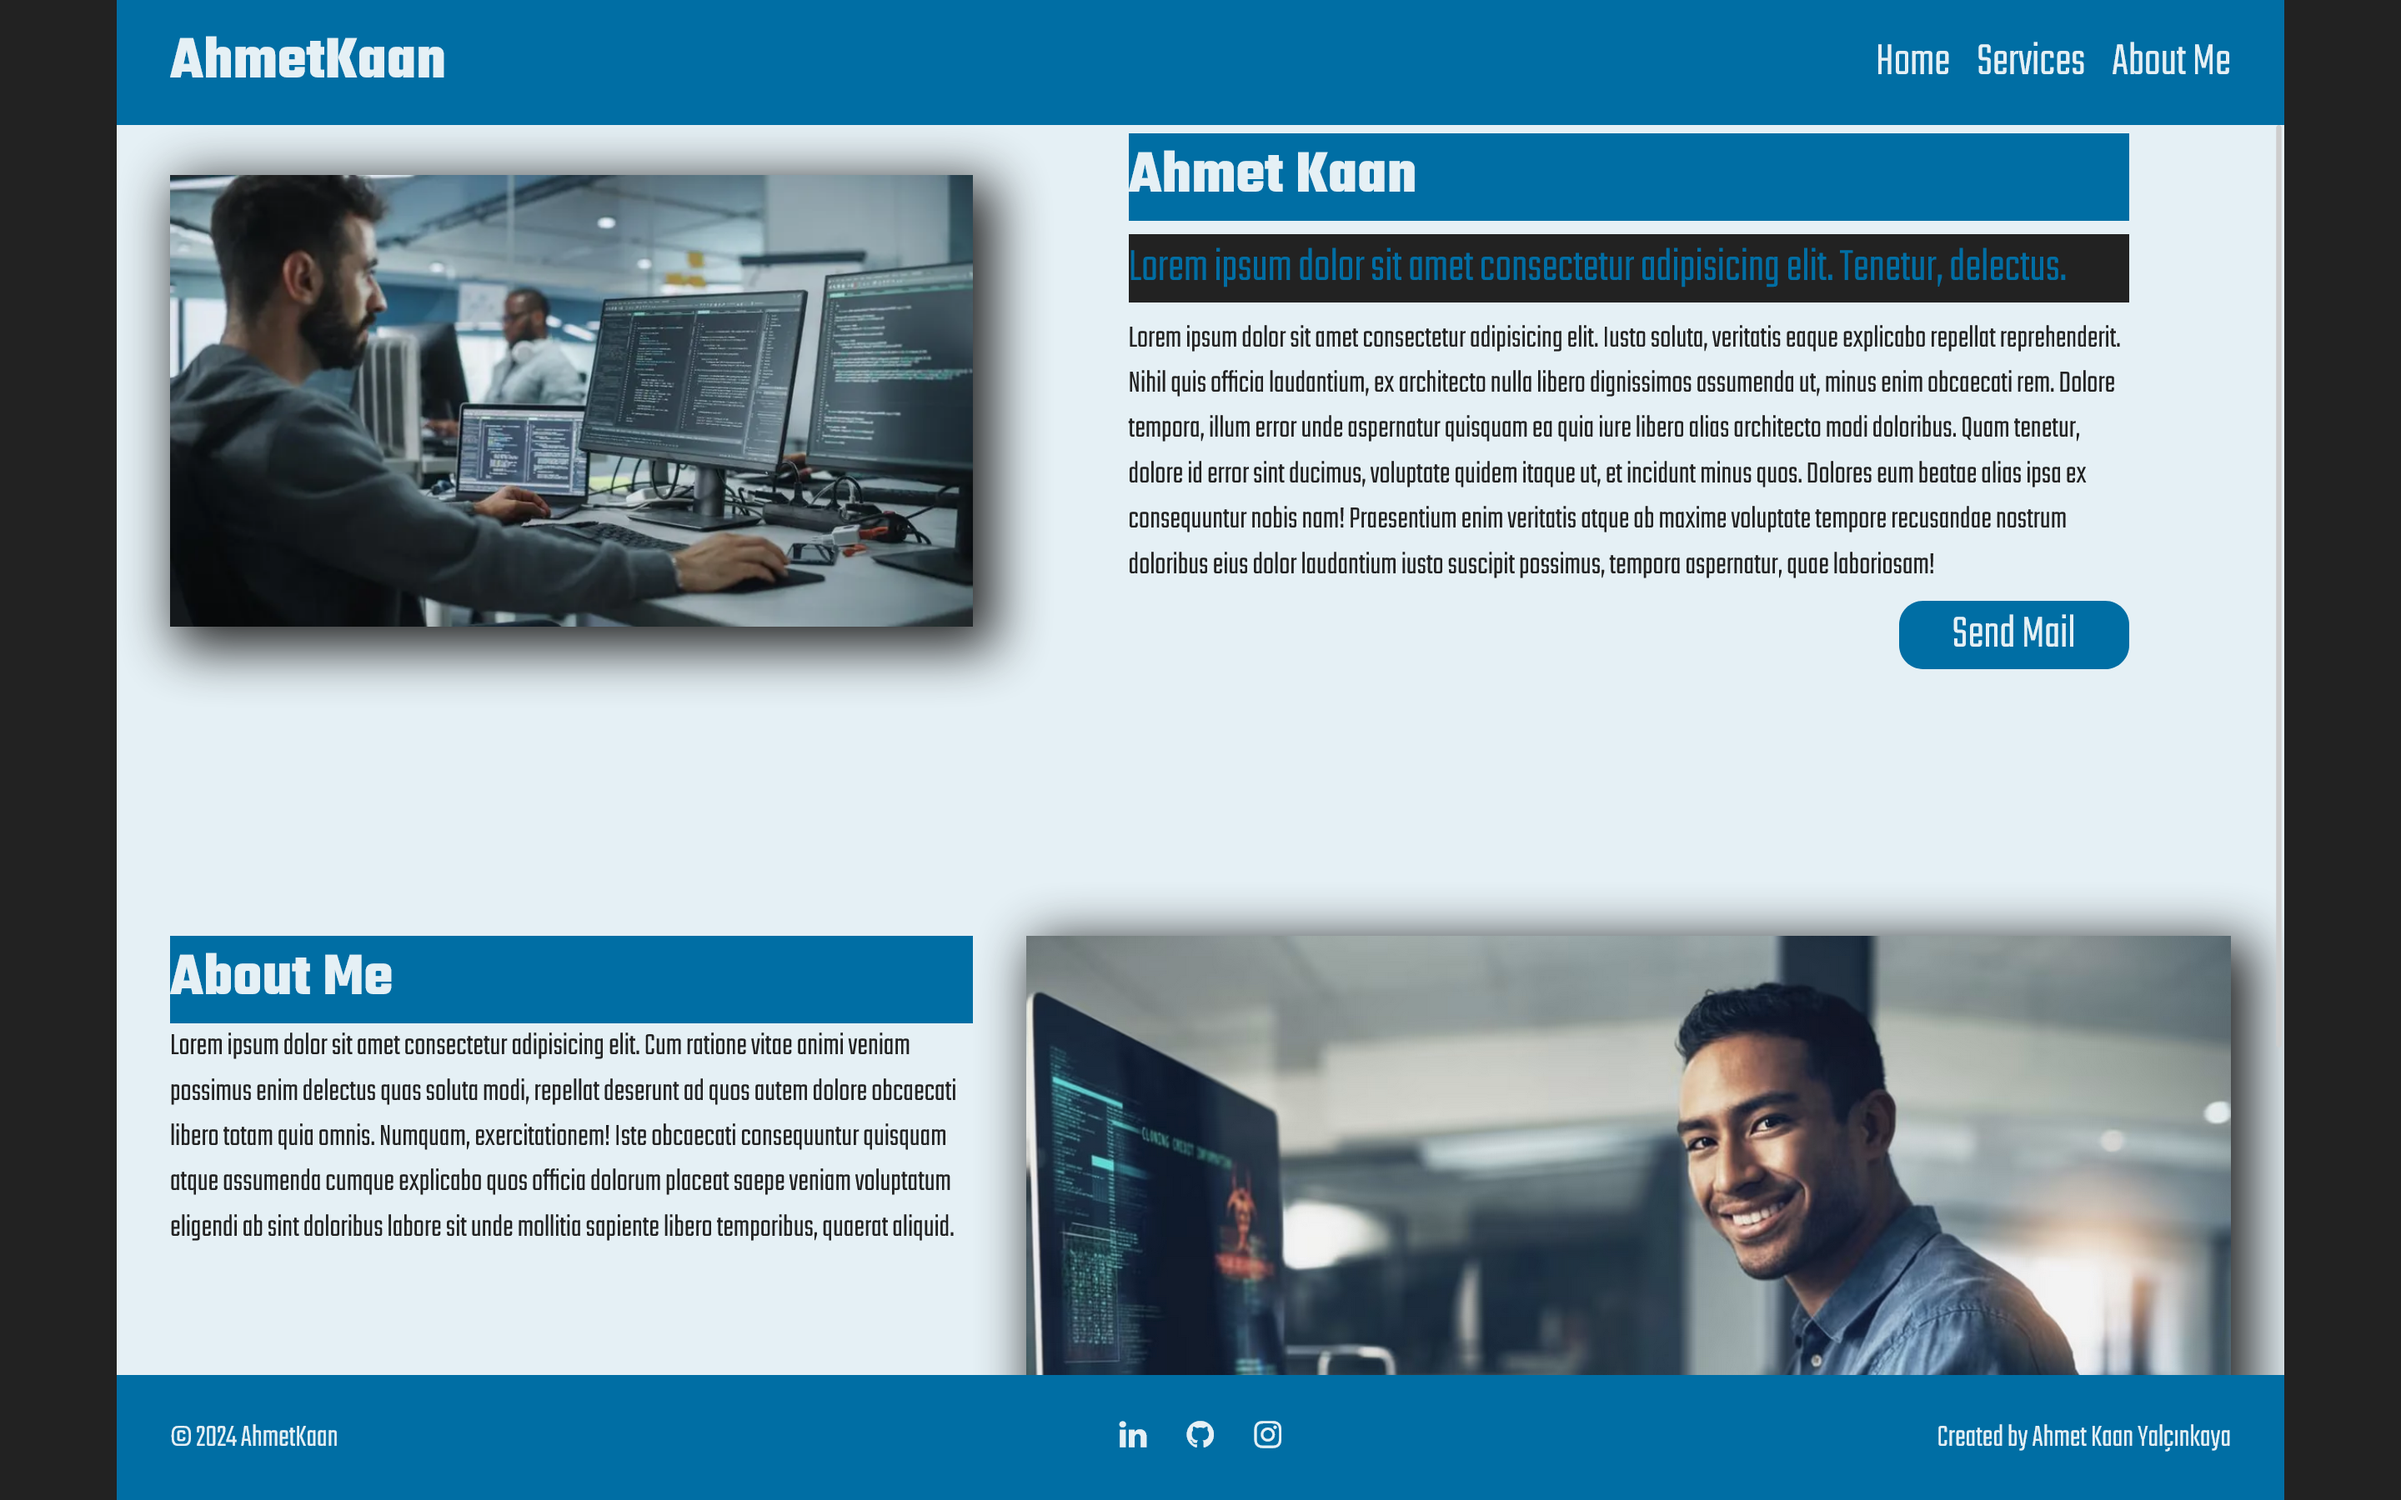
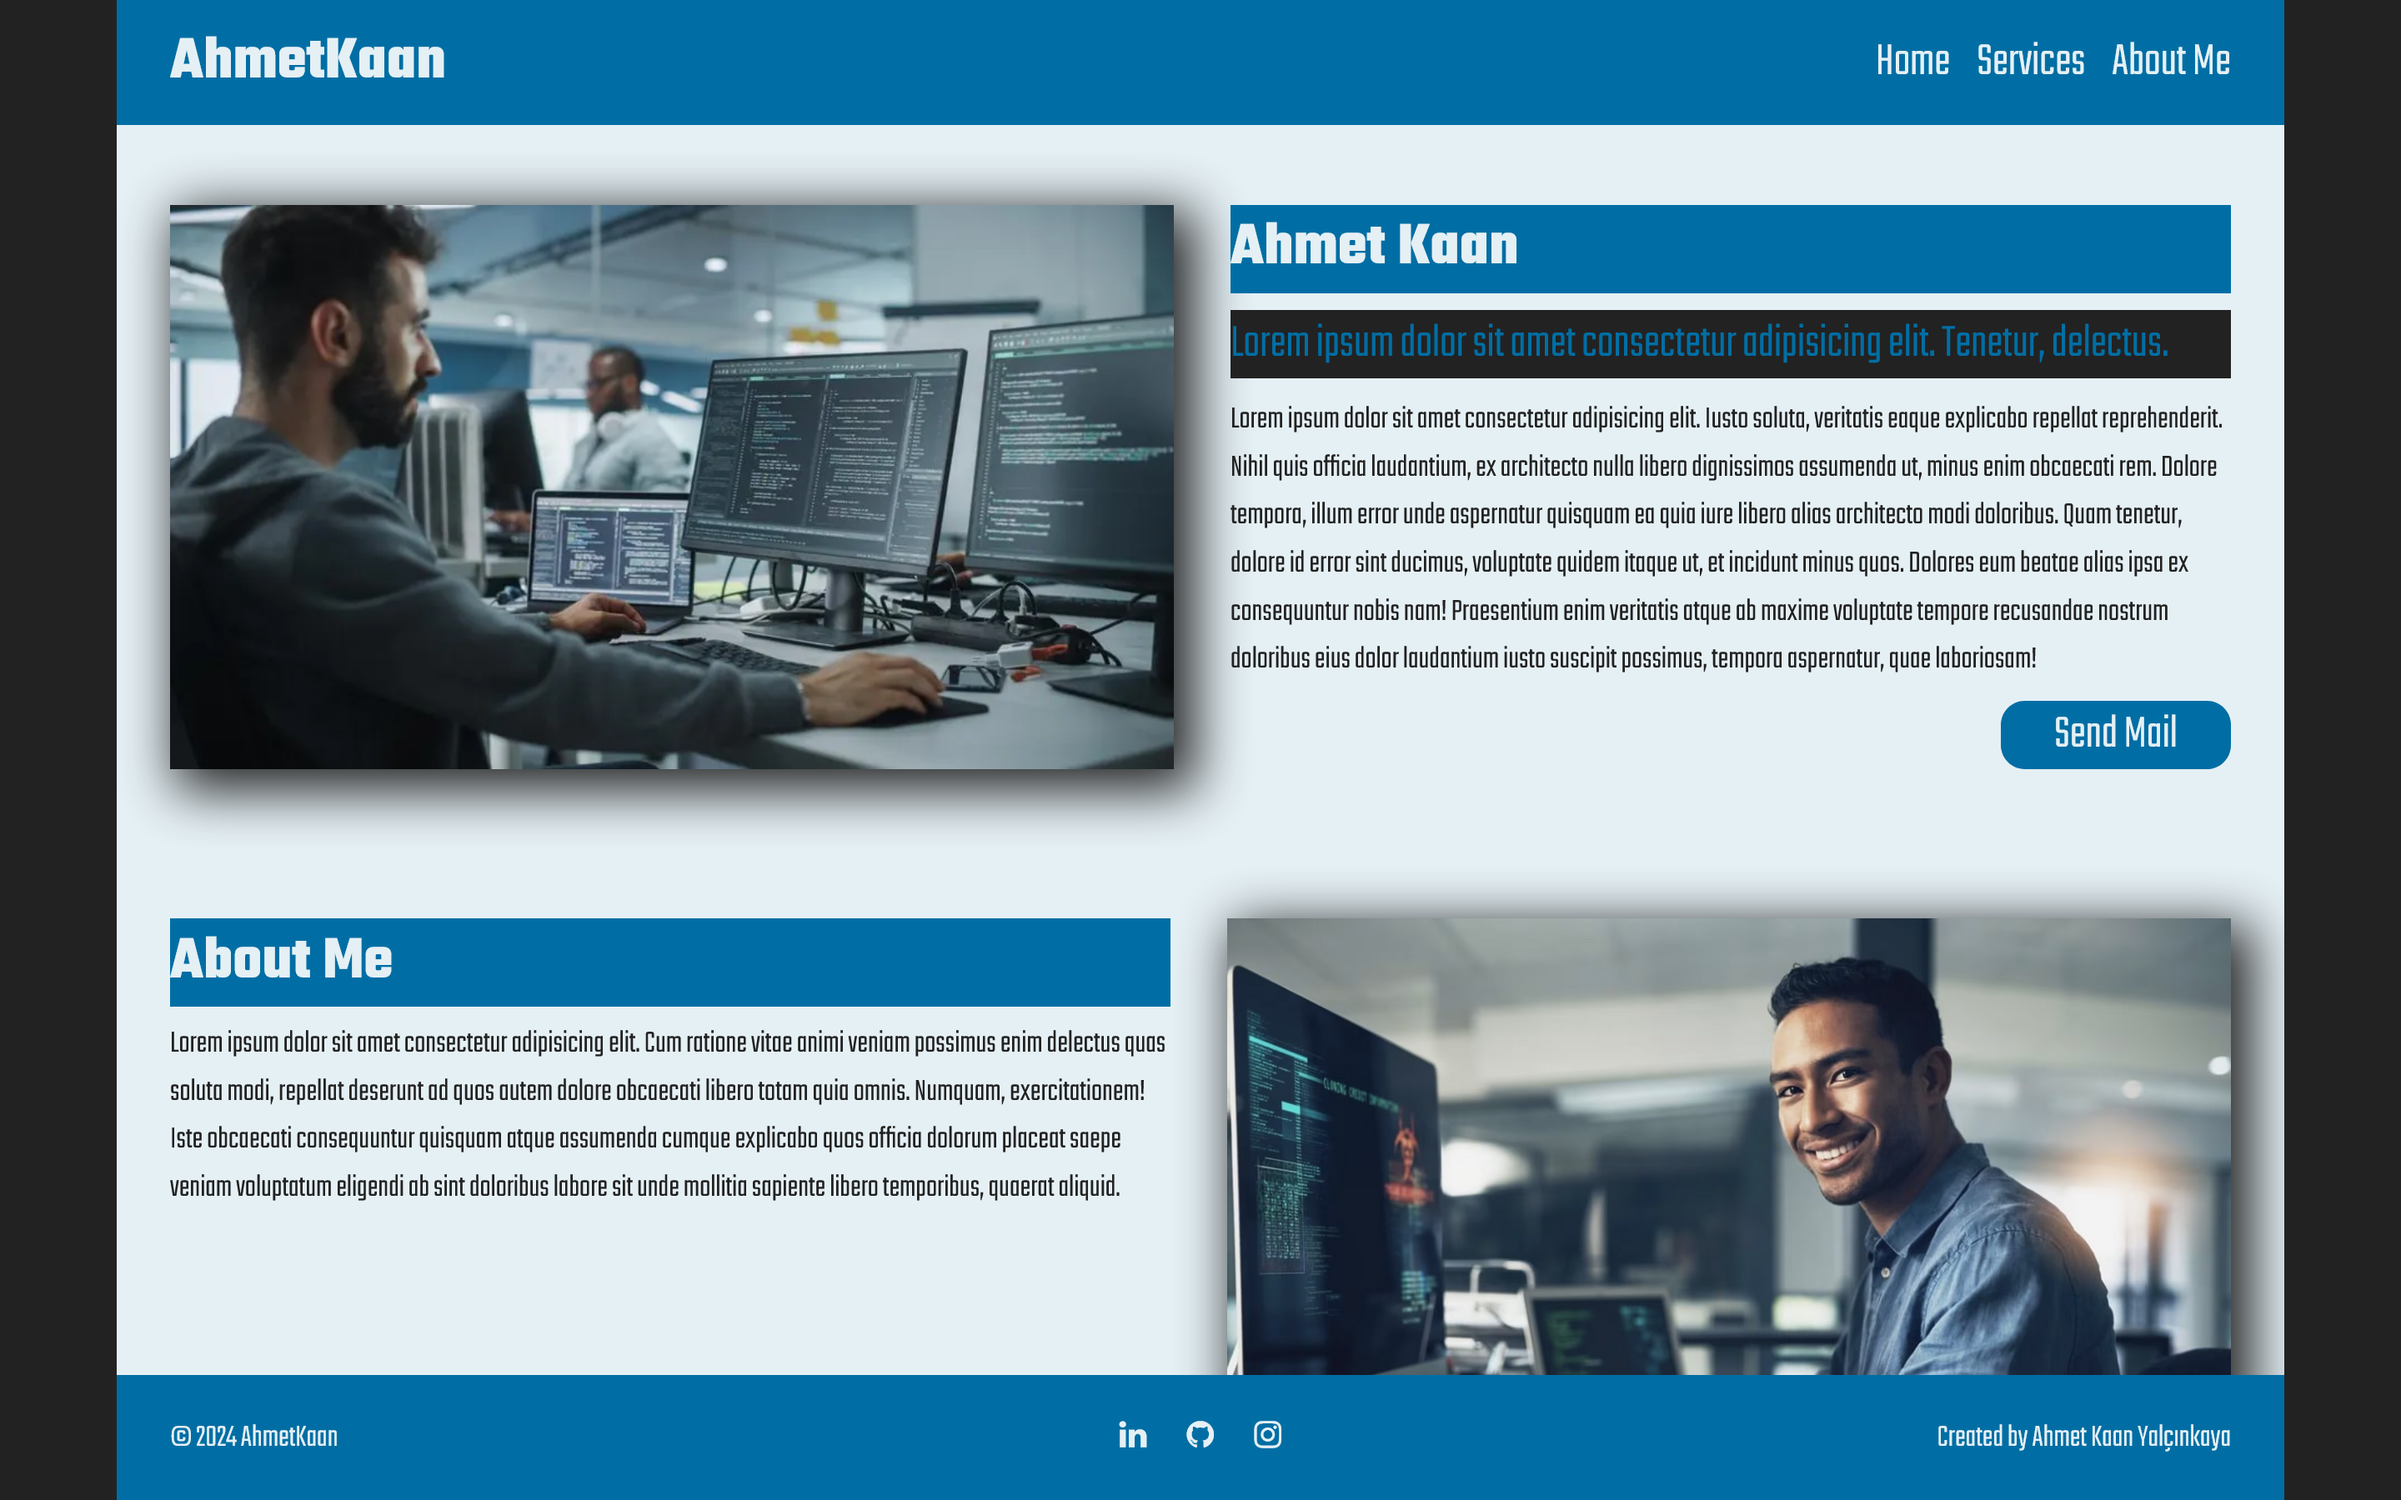
change css design

diff --git a/style.css b/style.css
@@ -15,6 +15,8 @@ html{
     --fw-light: 300;
     --fw-medium: 500;
     --fw-bold: 700;
+
+    --line-h: 1.8rem;
 }
 a{
     text-decoration: none;
@@ -66,6 +68,7 @@ header > nav{
     color: var(--clr-light);
     font-size: var(--fs-medium);
     font-weight: var(--fw-light);
+    min-width: max-content;
 }
 .header__menu:hover{
     background-color: var(--clr-dark);
@@ -112,14 +115,14 @@ main{
     justify-self: center;
     overflow-y: scroll;
     color: var(--clr-dark);
-    padding: .3rem 2rem;
+    padding: 3rem 2rem;
     display: grid;
     grid-template-columns: 1fr;
-    gap: 10rem;
+    gap: 5.6rem;
 }
 .main__home{
     display: grid;
-    grid-template-columns: 1fr 1.5fr;
+    grid-template-columns: 1fr 1fr;
     column-gap: 2rem;
     justify-items: center;
     align-items: center;
@@ -127,14 +130,23 @@ main{
 }
 .main__about-me{
     display: grid;
-    grid-template-columns: 1fr 1.5fr;
+    grid-template-columns: 1fr 1fr;
     column-gap: 2rem;
     justify-items: center;
     align-items: center;
 }
 .main__about-text{
+    height: 100%;
     justify-self: start;
     align-self: flex-start;
+    display: flex;
+    flex-direction: column;
+    justify-content: start;
+    gap: .5rem
+}
+
+.main__img{
+    align-self: start;
 }
 
 .main__img, .main__about-img{
@@ -156,14 +168,19 @@ main{
 .main__text{
     font-size: var(--fs-small);
     font-weight: var(--fw-light);
-    background-color: var(--clr-light);
+    color: var(--clr-dark);
     max-width: 600px;
+    line-height: var(--line-h);
 }
 
 .main__info{
+    height: 100%;
+    align-self: start;
+    justify-self: end;
     display: flex;
     flex-direction: column;
     gap: .5rem;
+    justify-content: space-between;
 }
 .main__btn-mail{
     align-self: flex-end;
@@ -203,6 +220,15 @@ main{
 @media screen and (max-width: 1100px){
     main{
         gap: 3rem;
+    }
+    .main__info{
+        justify-self: stretch;
+    }
+    .main__btn-mail{
+        align-self: start;
+    }
+    .main__about-text{
+        justify-self: stretch;
     }
     .main__home, .main__about-me{
         grid-template-columns: 1fr;
